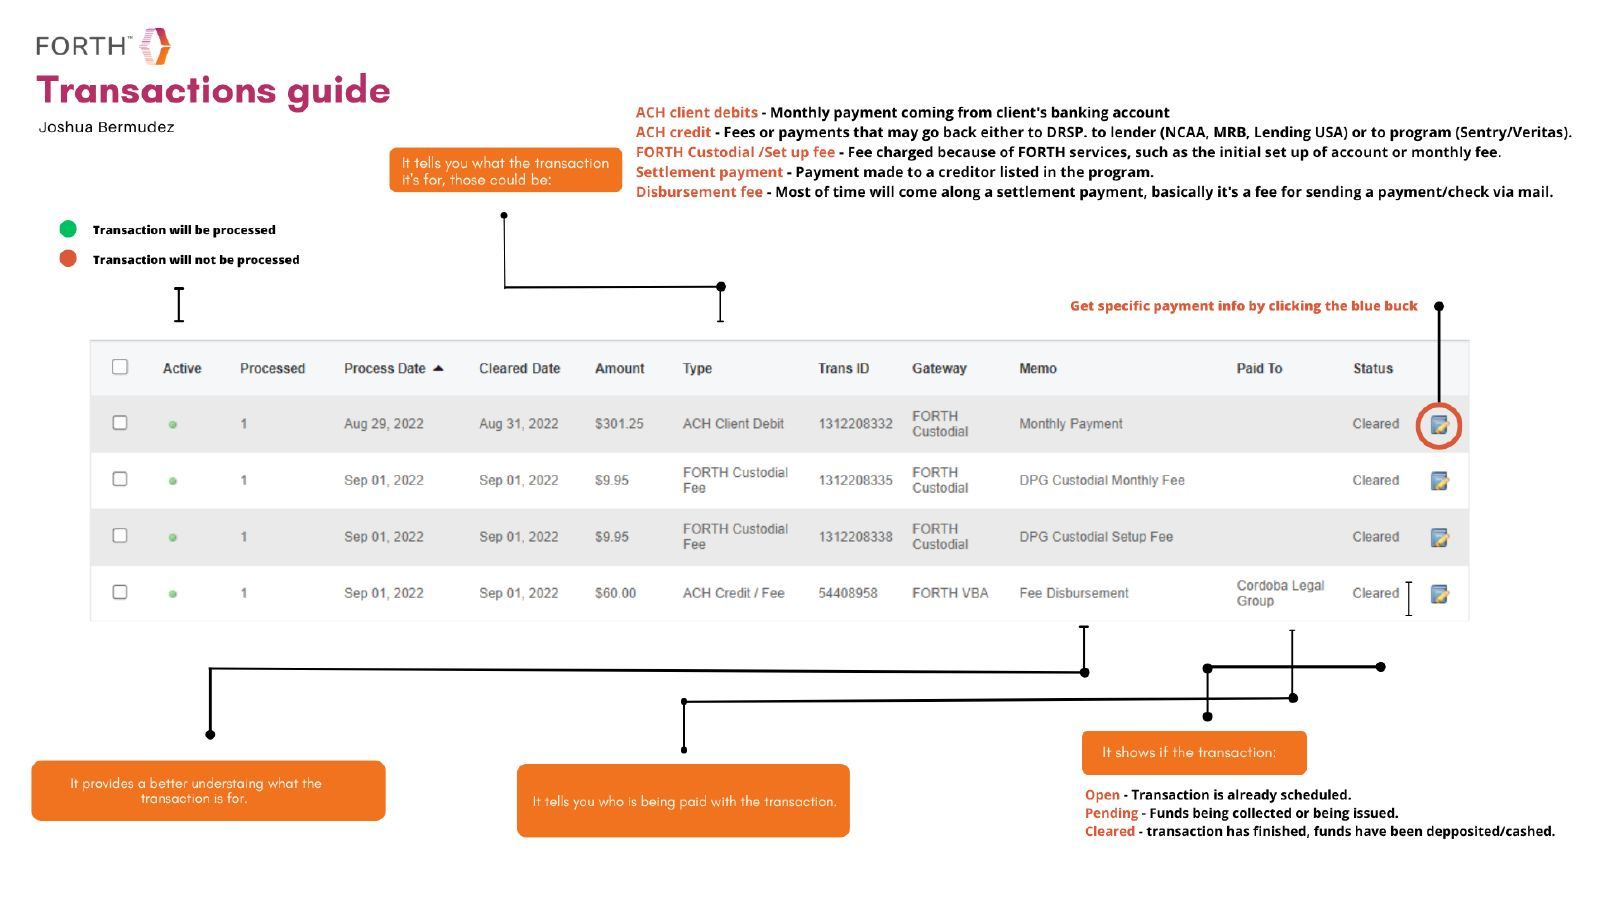
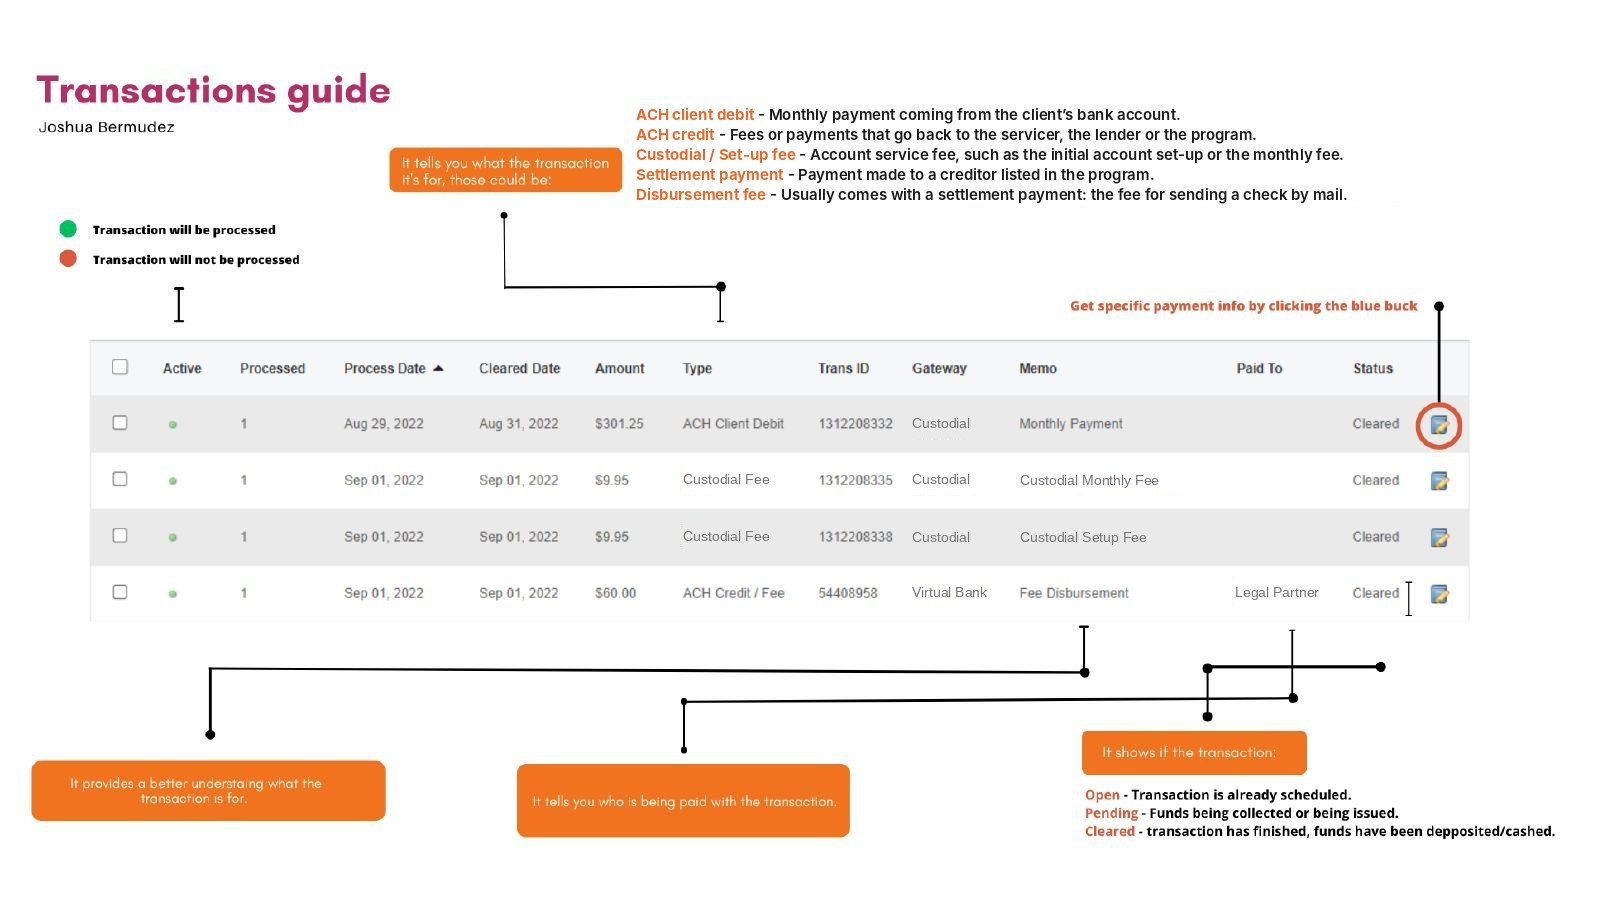
Guías de capacitación: 10 láminas nuevas en inglés, sin marca del cliente y texto actualizado
Claude-Session: https://claude.ai/code/session_01MmRLeGmqkP7pjBMZMS7xGC

diff --git a/index.html b/index.html
@@ -991,9 +991,16 @@ const ES={
 "Brand identity · Commercial design":"Identidad de marca · Diseño comercial","HVAC services":"Servicios de aire acondicionado","Fleet & uniform":"Flota y uniformes",
 "An air-conditioning maintenance and repair company needed to look reliable and professional on the street and online.":"Una empresa de mantenimiento y reparación de aire acondicionado necesitaba verse confiable y profesional en la calle y en línea.",
 "A mark that merges a water drop with a cool-air swirl, a blue palette for freshness and trust, a type system, and applications on vans, uniforms, cards and social.":"Una marca que une una gota con un remolino de aire frío, una paleta azul de frescura y confianza, un sistema tipográfico y aplicaciones en vehículos, uniformes, tarjetas y redes.",
-"Training guides":"Guías de capacitación","Information design":"Diseño de información","Fintech operations":"Operaciones fintech","Step-by-step guides":"Guías paso a paso","Call flows":"Flujos de llamada",
-"A team growing from zero to 40+ people had to learn complex payment processes quickly and without errors.":"Un equipo que creció de cero a más de 40 personas tenía que aprender procesos de pago complejos rápido y sin errores.",
-"Visual step-by-step guides, call flows and a transactions map that new hires could follow on their own.":"Guías visuales paso a paso, flujos de llamada y un mapa de transacciones que el personal nuevo podía seguir por su cuenta.",
+"Training guides":"Guías de capacitación","Information design":"Diseño de información","Information design · Training":"Diseño de información · Capacitación","Fintech operations · U.S.":"Operaciones fintech · EE. UU.","Onboarding & QA":"Onboarding y QA","Performance reporting":"Reportes de desempeño",
+"A U.S. payments support team grew from zero to 40+ people. New hires had to learn complex processes fast, without mistakes with client money or private data.":"Un equipo de soporte de pagos en EE. UU. creció de cero a más de 40 personas. El personal nuevo tenía que aprender procesos complejos rápido, sin errores con el dinero ni los datos privados de los clientes.",
+"A training library in plain English: step-by-step guides and call flows, process infographics, QA do’s and don’ts with a scorecard, a 30-day onboarding plan, and a monthly results report so leads could see what was working.":"Una biblioteca de capacitación en inglés claro: guías paso a paso y flujos de llamada, infografías de procesos, do’s y don’ts de QA con su scorecard, un plan de onboarding de 30 días y un reporte mensual de resultados para que los líderes vieran qué funcionaba.",
+"About 225 tickets solved a month, an average QA score of 94% and new hires ready in 3 weeks instead of 6.":"Unos 225 tickets resueltos al mes, un promedio de QA de 94% y personal nuevo listo en 3 semanas en lugar de 6.",
+"Step-by-step guides":"Guías paso a paso","The transactions map above, an 8-step account closure guide and a 9-question call flow for the processes that caused the most errors.":"El mapa de transacciones de arriba, una guía de cierre de cuenta en 8 pasos y un flujo de llamada de 9 preguntas para los procesos que causaban más errores.",
+"Process infographics":"Infografías de procesos","Check processing from arrival to deposit, with cut-off times and stop rules, and a three-tier escalation map with response times.":"El procesamiento de cheques desde que llegan hasta el depósito, con horarios de corte y reglas de rechazo, y un mapa de escalamiento en tres niveles con tiempos de respuesta.",
+"QA do’s & don’ts":"Do’s y don’ts de QA","What good looks like on calls and in tickets, with real examples, plus the scorecard every evaluation uses.":"Cómo se ve un buen trabajo en llamadas y tickets, con ejemplos reales, y el scorecard que usa cada evaluación.",
+"Onboarding":"Onboarding","A 30-day plan for new agents and six best practices for the leads and buddies who train them.":"Un plan de 30 días para agentes nuevos y seis buenas prácticas para los líderes y buddies que los entrenan.",
+"Compliance basics":"Bases de cumplimiento","Caller verification and data privacy in one page: three questions before any account detail.":"Verificación de identidad y privacidad de datos en una página: tres preguntas antes de dar cualquier dato de la cuenta.",
+"Results analysis":"Análisis de resultados","A monthly report on team performance (tickets, checks, QA, SLA) and a before-and-after look at what changed with the new guides.":"Un reporte mensual del desempeño del equipo (tickets, cheques, QA, SLA) y una comparación de antes y después de las nuevas guías.",
 "KPI dashboards":"Dashboards de KPIs","Data & reporting":"Datos y reportes","Real time":"Tiempo real","Team KPIs":"KPIs del equipo",
 "Supervisors needed to see team performance during the day, not in a report a week later.":"Los supervisores necesitaban ver el rendimiento del equipo durante el día, no en un reporte una semana después.",
 "Live dashboards that pull from the daily tracker and flag who needs coaching, with client data kept private.":"Dashboards en vivo que toman datos del tracker diario y señalan quién necesita coaching, cuidando la privacidad de los datos del cliente."
@@ -1158,11 +1165,19 @@ const PROJECTS=[
    {k:'',h:'',p:'',imgs:['totem','lightbox'],c:2},
    {k:'',h:'',p:'',imgs:['uniforms','feed'],c:2}
   ],imgs:[]},
- {id:'training',tags:['data'],title:'Training guides',eye:'Information design',cover:'work/p09.jpg',
-  meta:['Fintech operations','Step-by-step guides','Call flows'],
-  challenge:'A team growing from zero to 40+ people had to learn complex payment processes quickly and without errors.',
-  solution:'Visual step-by-step guides, call flows and a transactions map that new hires could follow on their own.',
-  result:'',imgs:[8,9]},
+ {id:'training',tags:['data'],title:'Training guides',eye:'Information design · Training',cover:'work/p09.jpg',dir:'training',
+  meta:['Fintech operations · U.S.','Onboarding & QA','Performance reporting'],
+  challenge:'A U.S. payments support team grew from zero to 40+ people. New hires had to learn complex processes fast, without mistakes with client money or private data.',
+  solution:'A training library in plain English: step-by-step guides and call flows, process infographics, QA do’s and don’ts with a scorecard, a 30-day onboarding plan, and a monthly results report so leads could see what was working.',
+  result:'About 225 tickets solved a month, an average QA score of 94% and new hires ready in 3 weeks instead of 6.',
+  blocks:[
+   {k:'01',h:'Step-by-step guides',p:'The transactions map above, an 8-step account closure guide and a 9-question call flow for the processes that caused the most errors.',imgs:['guides']},
+   {k:'02',h:'Process infographics',p:'Check processing from arrival to deposit, with cut-off times and stop rules, and a three-tier escalation map with response times.',imgs:['check-process','escalation']},
+   {k:'03',h:'QA do’s & don’ts',p:'What good looks like on calls and in tickets, with real examples, plus the scorecard every evaluation uses.',imgs:['qa-calls','qa-tickets','qa-scorecard']},
+   {k:'04',h:'Onboarding',p:'A 30-day plan for new agents and six best practices for the leads and buddies who train them.',imgs:['onboarding-30-days','onboarding-best-practices']},
+   {k:'05',h:'Compliance basics',p:'Caller verification and data privacy in one page: three questions before any account detail.',imgs:['verification']},
+   {k:'06',h:'Results analysis',p:'A monthly report on team performance (tickets, checks, QA, SLA) and a before-and-after look at what changed with the new guides.',imgs:['results-monthly','results-analysis']}
+  ],imgs:[]},
  {id:'dash',tags:['data'],title:'KPI dashboards',eye:'Data & reporting',cover:'work/p13.jpg',
   meta:['Google Sheets','Real time','Team KPIs'],
   challenge:'Supervisors needed to see team performance during the day, not in a report a week later.',
